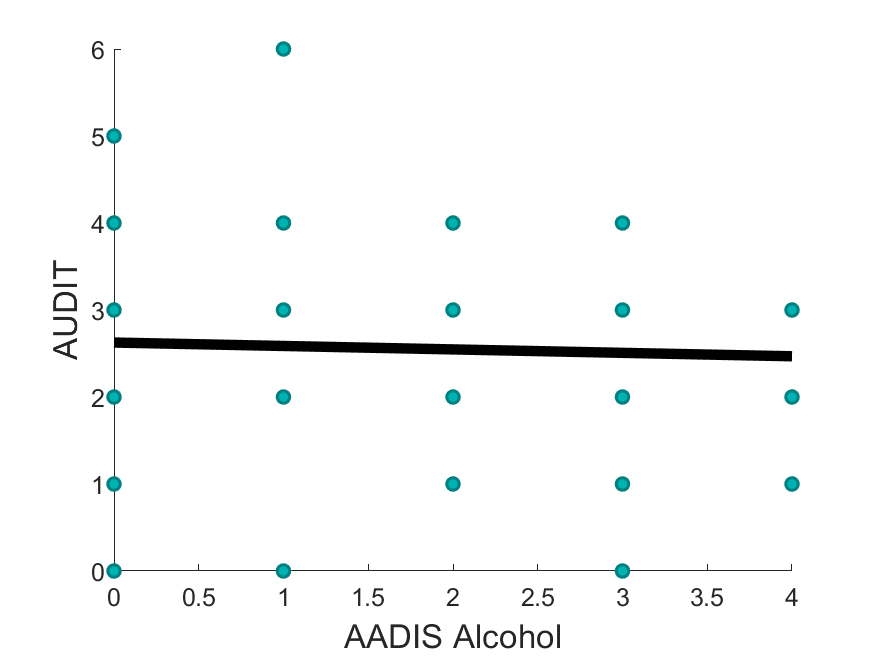
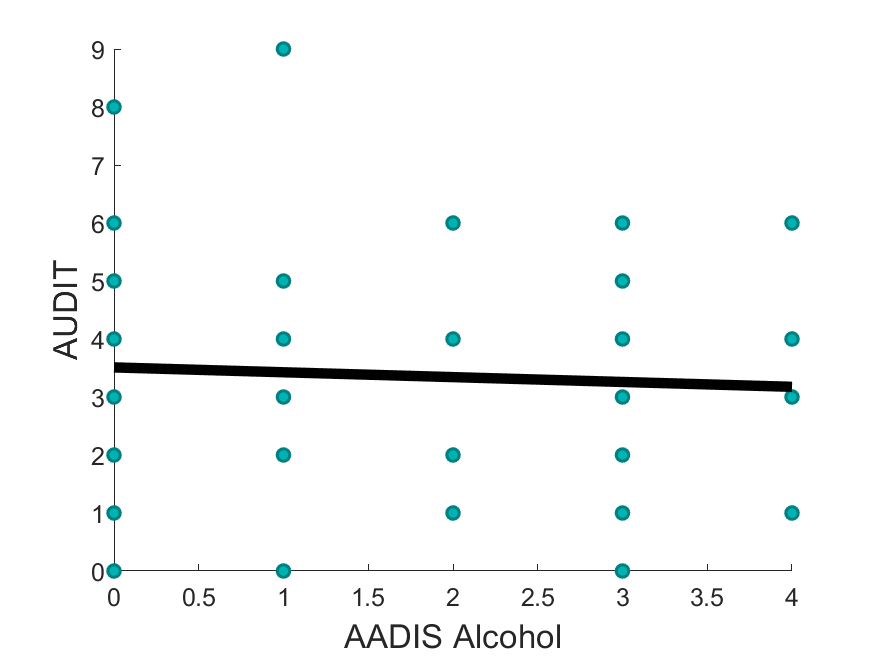
updates to the tsv converter.

diff --git a/UGDG/Behavioral_Analysis/ID_Scores.m b/UGDG/Behavioral_Analysis/ID_Scores.m
@@ -345,6 +345,7 @@ audit_data = [];
 % audit is tenth column. motion is eleventh column
 
 AUDIT = [data.Participant, data.audit];
+AUDIT_Total = [];
 
 
 for ii = 1:length(subjects)
@@ -414,11 +415,14 @@ saveas(gcf,'AUDIT_DUDIT.png')
 
 data = readtable('Substance_and_Mood_data.csv');
 AADIS = [data.('sub'),data.('aadis_q1'),data.('aadis_q2'),data.('aadis_q3'),data.('aadis_q4'),data.('aadis_q5'),data.('aadis_q6'),data.('aadis_q7'),data.('aadis_q8'),data.('aadis_q9'),data.('aadis_q10'),data.('aadis_q11'),data.('aadis_q12'),data.('aadis_q13')];
-AUDIT_Freq_raw = [data.('sub'), data.('audit_1') + data.('audit_2')];
+AUDIT_Freq_raw = [data.('sub'), data.('audit_1') + data.('audit_2') + data.('audit_3')];
+AUDIT_Problematic_raw = [data.('sub'), data.('audit_4') + data.('audit_5') + data.('audit_6') + data.('audit_7') + data.('audit_8') + data.('audit_9') + data.('audit_10')];
 
 % Q1: How often do you drink, Q2:, how many drinks?
 
-DUDIT_Freq_raw = [data.('sub'), data.('dudit_1') + data.('dudit_3') + data.('dudit_4')];
+DUDIT_Freq_raw = [data.('sub'), data.('dudit_1') + data.('dudit_2') + data.('dudit_3') + data.('dudit_4')];
+DUDIT_Problematic_raw = [data.('sub'), data.('dudit_5') + data.('dudit_6') + data.('dudit_7') + data.('dudit_8') + data.('dudit_9') + data.('dudit_10') + data.('dudit_11')];
+
 
 % Q1: How often do you do drugs, Q3:, how many times do you take drugs per day, Q4: how often are you heavily influenced?
 
@@ -426,7 +430,6 @@ DUDIT_Freq_raw = [data.('sub'), data.('dudit_1') + data.('dudit_3') + data.('dud
 
 eliminate_rows = any(isnan(AADIS),2);
 AADIS_Good = [];
-
 
 for ii = 1:length(AADIS)
     keep = [];
@@ -461,6 +464,31 @@ for ii = 1:length(AUDIT_Freq_raw)
         keep = row;
     end
     AUDIT_Freq = [AUDIT_Freq; keep];
+end
+
+eliminate_rows = any(isnan(AUDIT_Problematic_raw),2);
+AUDIT_Problematic = [];
+
+for ii = 1:length(AUDIT_Problematic_raw)
+    keep = [];
+    row = AUDIT_Problematic_raw(ii,:);
+    if eliminate_rows(ii) == 0;
+        keep = row;
+    end
+    AUDIT_Problematic = [AUDIT_Problematic; keep];
+end
+ 
+eliminate_rows = any(isnan(DUDIT_Problematic_raw),2);
+
+DUDIT_Problematic = [];
+
+for ii = 1:length(DUDIT_Problematic_raw)
+    keep = [];
+    row = DUDIT_Problematic_raw(ii,:);
+    if eliminate_rows(ii) == 0;
+        keep = row;
+    end
+    DUDIT_Problematic = [DUDIT_Problematic; keep];
 end
  
 
@@ -687,6 +715,91 @@ i.Color = [0 0 0];
 set(gcf,'color','w');
 
 saveas(gcf,'DUDIT.png')
+
+%% Correlation between problematic substance use and frequency
+
+
+AUDIT_Problematic_test = [];
+AUDIT_Freq_test = [];
+
+% Save the rows from AADIS that mirror DUDIT subjects.
+
+for ii = 1:length(AUDIT_Freq)
+    save = [];
+    subj_row = [];
+    subj = AUDIT_Freq(ii,1);
+    subj_row = find(AUDIT_Problematic==subj);
+    save = AUDIT_Problematic(subj_row,:);
+    AUDIT_Problematic_test = [AUDIT_Problematic_test;save];
+end
+
+for ii = 1:length(AUDIT_Problematic_test)
+    save = [];
+    subj_row = [];
+    subj = AUDIT_Problematic_test(ii,1);
+    subj_row = find(AUDIT_Freq==subj);
+    save = AUDIT_Freq(subj_row,:);
+    AUDIT_Freq_test = [AUDIT_Freq_test;save];
+end
+
+[R,P] = corrcoef(AUDIT_Freq_test(:,2), AUDIT_Problematic_test(:,2));
+
+[RHO,PVAL] = corr(AUDIT_Freq_test(:,2), AUDIT_Problematic_test(:,2),'Type','Spearman');
+[R,P] = corr(AUDIT_Freq_test(:,2), AUDIT_Problematic_test(:,2),'Type','Pearson');
+
+figure
+scatter(AUDIT_Freq_test(:,2), AUDIT_Problematic_test(:,2),'MarkerEdgeColor',[0 .5 .5],'MarkerFaceColor',[0 .7 .7],'LineWidth',1.5)
+ax = gca;
+ax.FontSize = 12;
+xlabel ('AUDIT Frequency', 'FontSize', 16);
+ylabel  ('AUDIT Problematic Use', 'FontSize', 16);
+i = lsline;
+i.LineWidth = 5;
+i.Color = [0 0 0];
+set(gcf,'color','w');
+
+saveas(gcf,'AUDIT Frequency vs. Problem.png')
+
+DUDIT_Problematic_test = [];
+DUDIT_Freq_test = [];
+
+% Save the rows from DUDIT Freq that mirror DUDIT subjects.
+
+for ii = 1:length(DUDIT_Freq)
+    save = [];
+    subj_row = [];
+    subj = DUDIT_Freq(ii,1);
+    subj_row = find(DUDIT_Problematic==subj);
+    save = DUDIT_Problematic(subj_row,:);
+    DUDIT_Problematic_test = [DUDIT_Problematic_test;save];
+end
+
+for ii = 1:length(DUDIT_Problematic_test)
+    save = [];
+    subj_row = [];
+    subj = DUDIT_Problematic_test(ii,1);
+    subj_row = find(DUDIT_Freq==subj);
+    save = DUDIT_Freq(subj_row,:);
+    DUDIT_Freq_test = [DUDIT_Freq_test;save];
+end
+
+[R,P] = corrcoef(DUDIT_Freq_test(:,2), DUDIT_Problematic_test(:,2));
+
+[RHO,PVAL] = corr(DUDIT_Freq_test(:,2), DUDIT_Problematic_test(:,2),'Type','Spearman');
+[R,PVAL] = corr(DUDIT_Freq_test(:,2), DUDIT_Problematic_test(:,2),'Type','Pearson');
+
+figure
+scatter(DUDIT_Freq_test(:,2), DUDIT_Problematic_test(:,2),'MarkerEdgeColor',[0 .5 .5],'MarkerFaceColor',[0 .7 .7],'LineWidth',1.5)
+ax = gca;
+ax.FontSize = 12;
+xlabel ('DUDIT Frequency', 'FontSize', 16);
+ylabel  ('DUDIT Problematic Use', 'FontSize', 16);
+i = lsline;
+i.LineWidth = 5;
+i.Color = [0 0 0];
+set(gcf,'color','w');
+
+saveas(gcf,'DUDIT Frequency vs. Problem.png')
 
 %% Alcohol AADIS vs Audit
 
